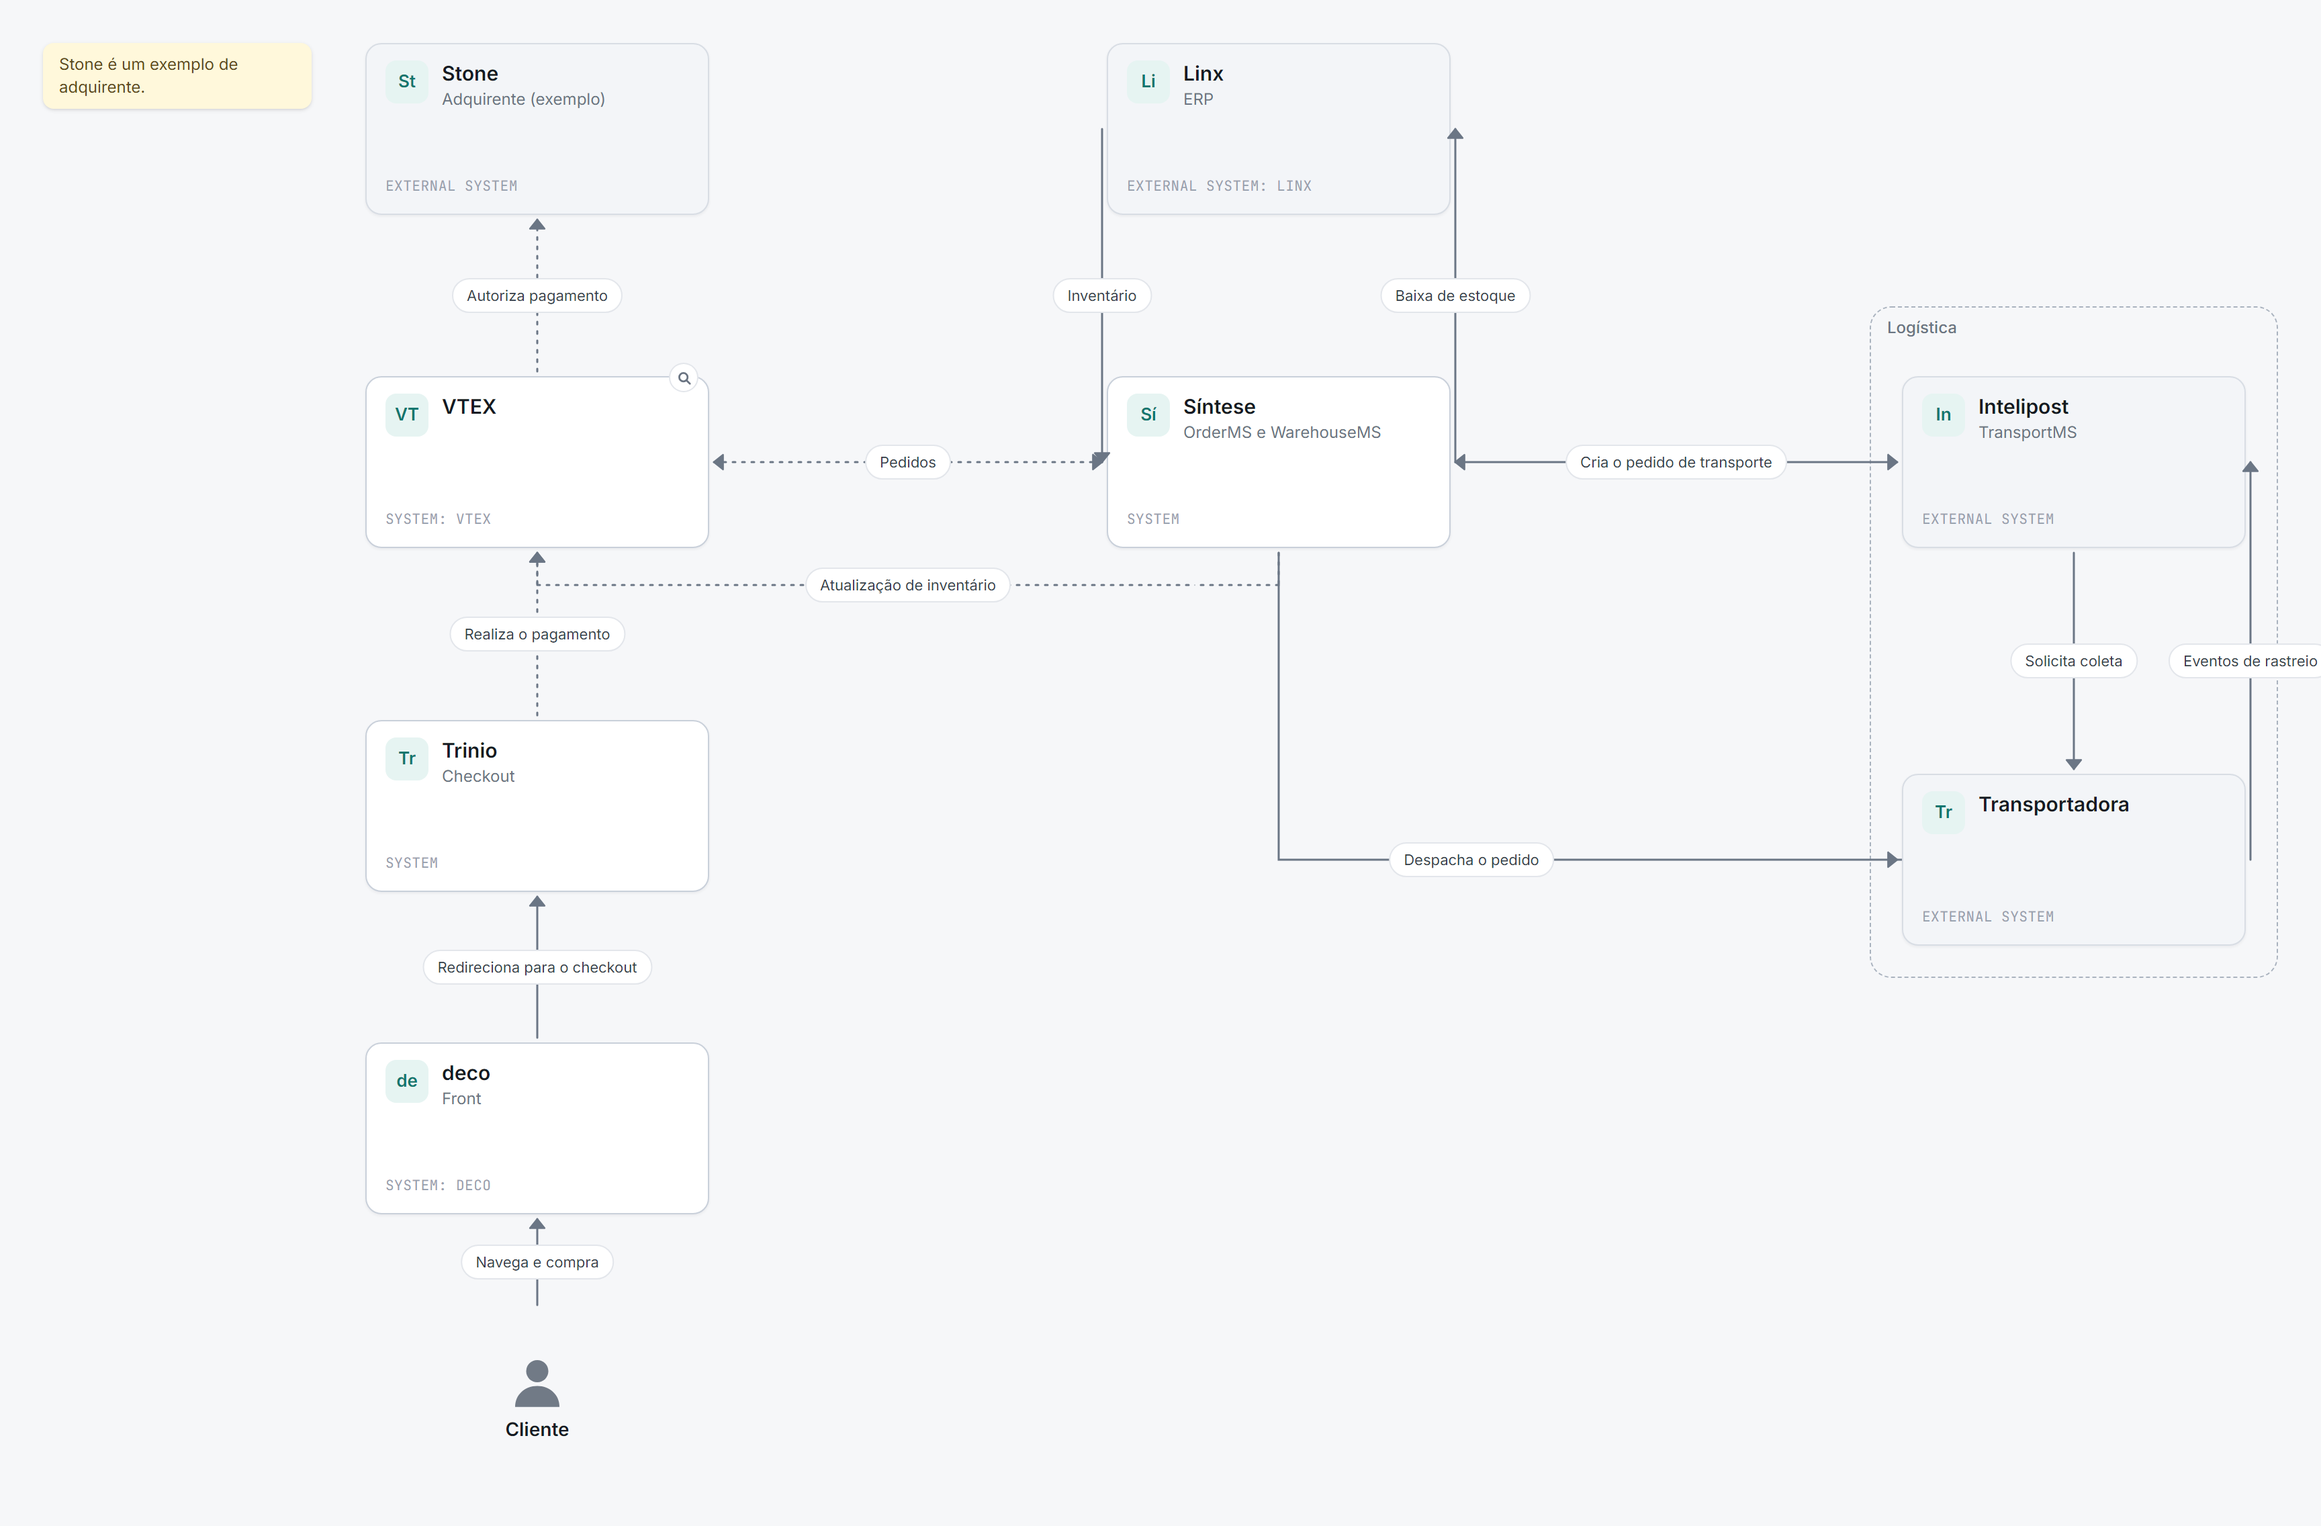
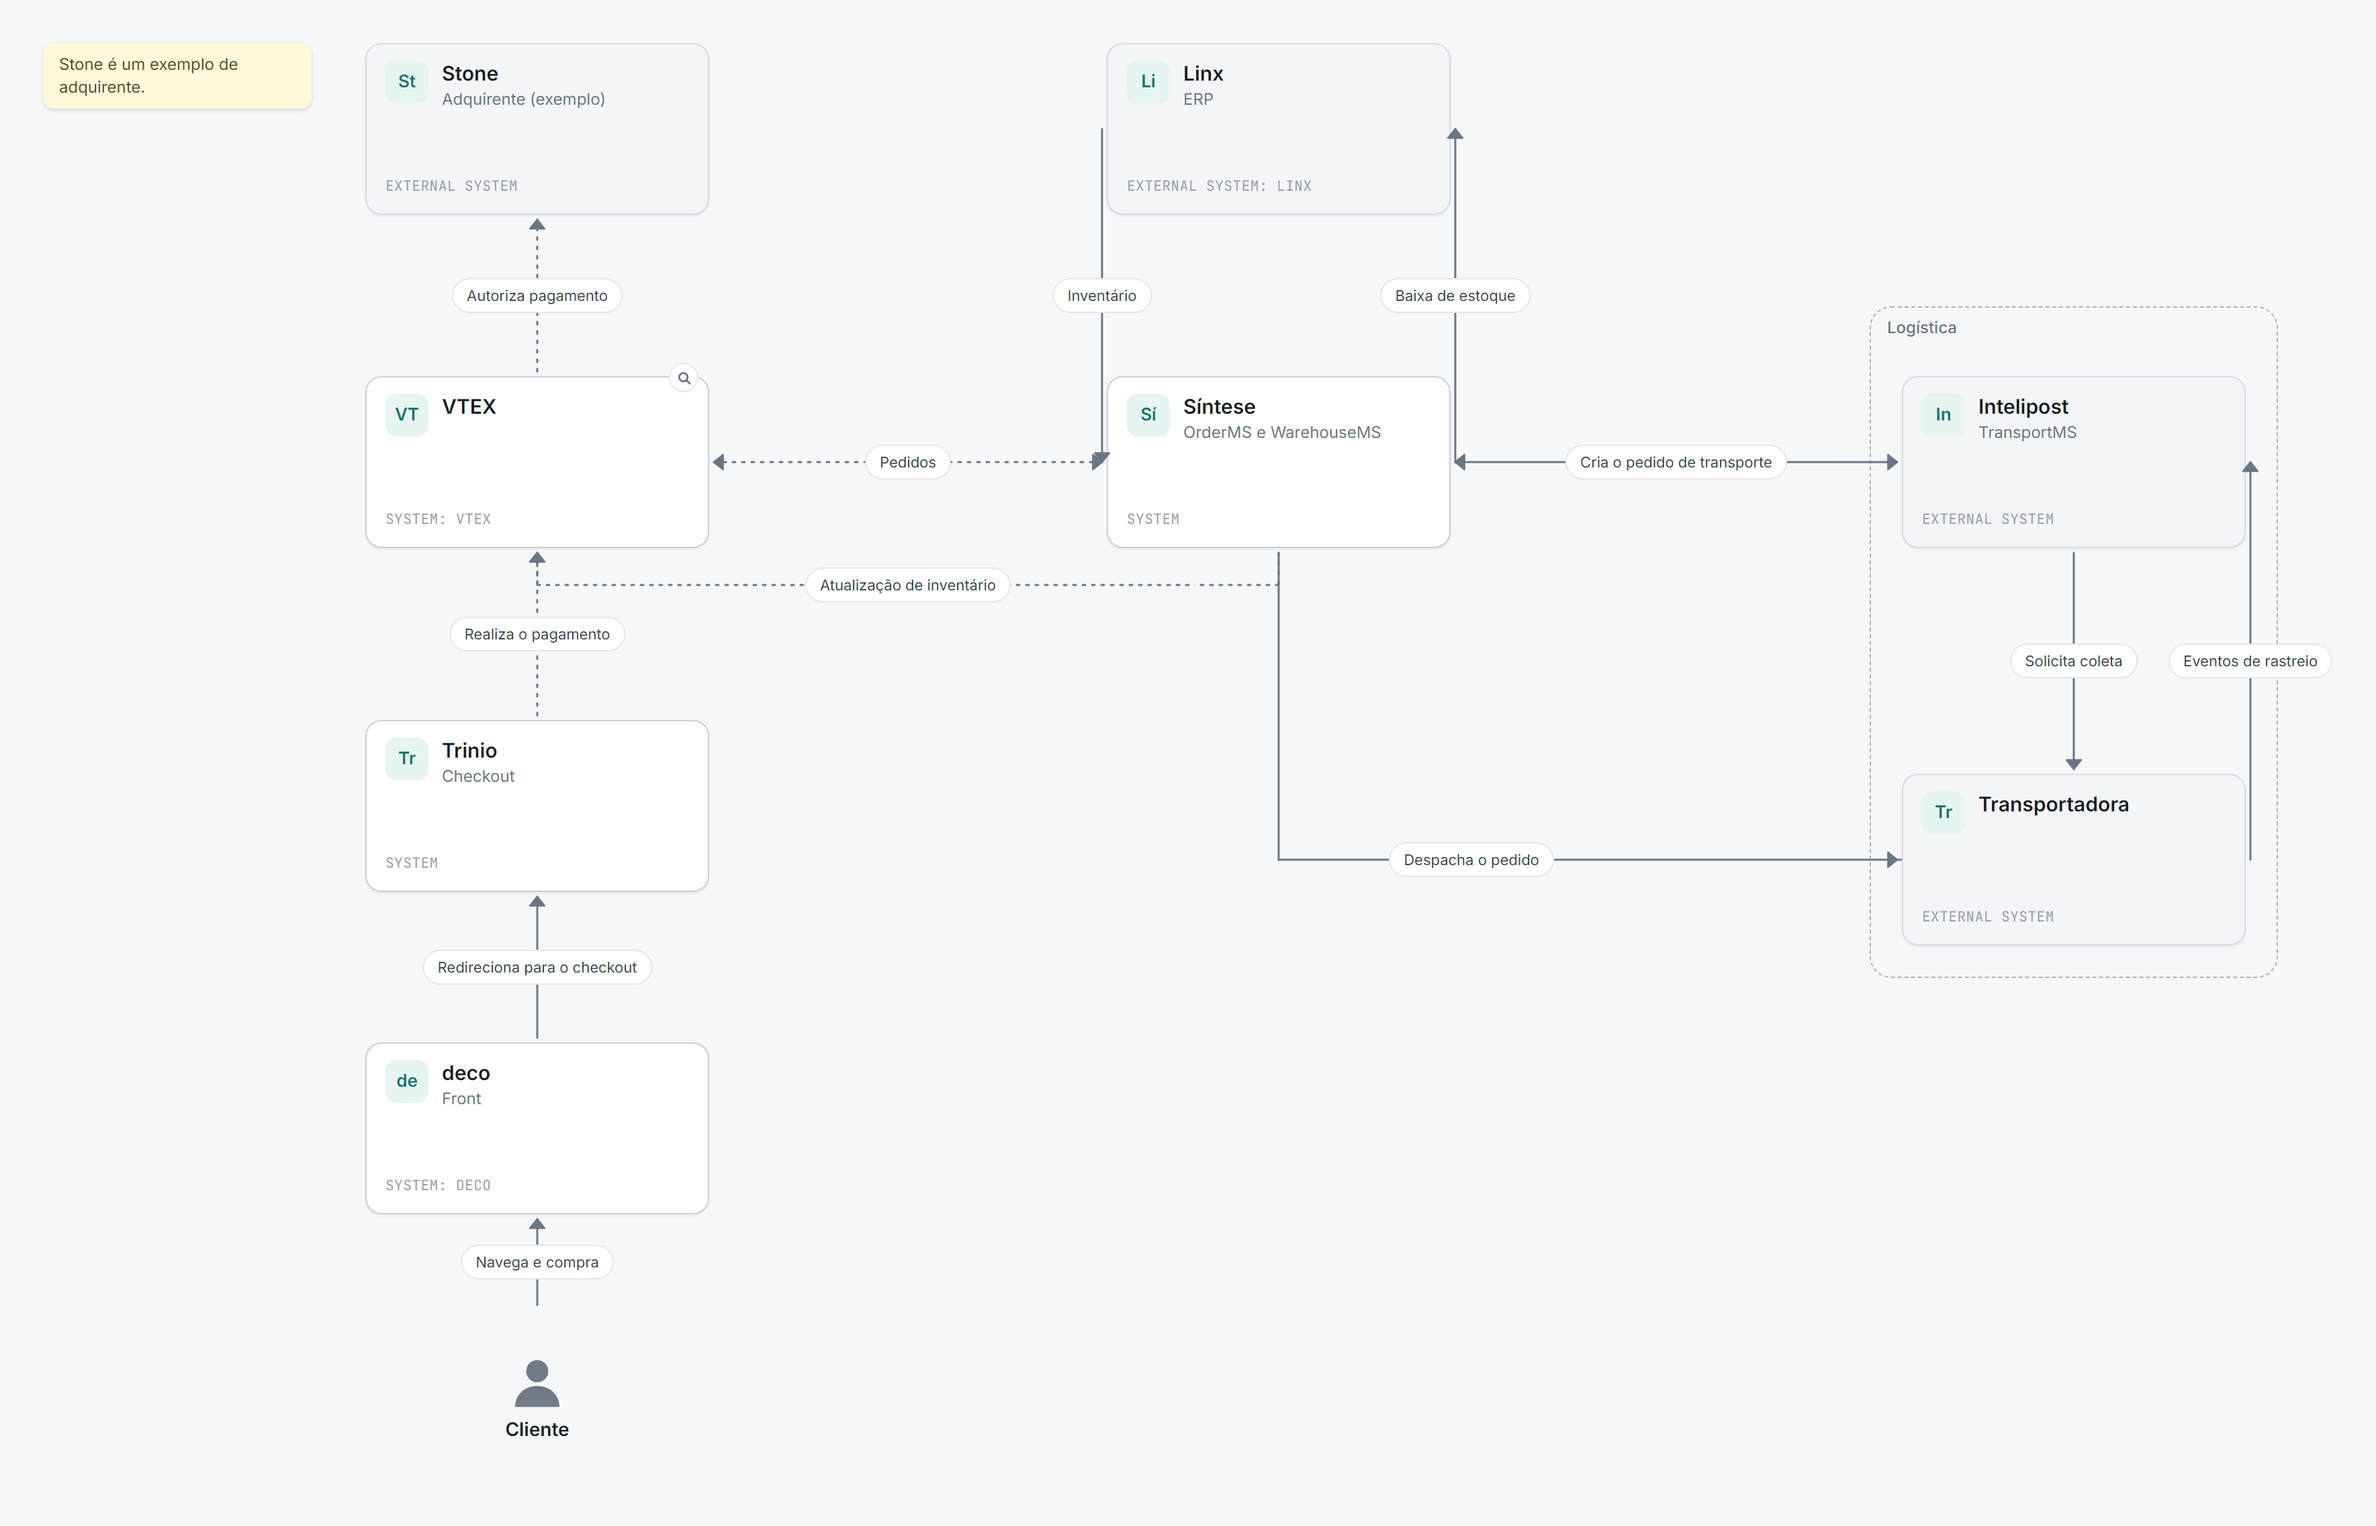
fix(render): fit the PNG frame to labels so none is clipped at the edge
The frame came from boxes, groups, notes and bend points only; a connector
label near the edge ("Eventos de rastreio") was cut on both Windows and
Linux. After layout the render route now measures what was drawn and
grows the frame once before marking itself ready. Renderer version 3.

diff --git a/packages/ui/src/canvas/Canvas.tsx b/packages/ui/src/canvas/Canvas.tsx
@@ -176,32 +176,7 @@ export function Canvas({ mode = 'edit' }: { mode?: 'edit' | 'render' }) {
 
   if (!drawing) return <div className="grid h-full place-items-center text-[var(--muted)]">Nenhum desenho. Crie um no painel esquerdo.</div>;
 
-  if (mode === 'render') {
-    const b = drawingBounds(index, drawing);
-    const pad = 32;
-    return (
-      <div id="render-root" style={{ width: Math.ceil(b.w + pad * 2), height: Math.ceil(b.h + pad * 2) }} className="bg-[var(--canvas)]">
-        <ReactFlow
-          nodes={nodes}
-          edges={edges}
-          nodeTypes={nodeTypes}
-          edgeTypes={edgeTypes}
-          onNodesChange={(changes) => setNodes((cur) => applyNodeChanges(changes, cur))}
-          viewport={{ x: -b.x + pad, y: -b.y + pad, zoom: 1 }}
-          nodesDraggable={false}
-          nodesConnectable={false}
-          elementsSelectable={false}
-          panOnDrag={false}
-          zoomOnScroll={false}
-          zoomOnPinch={false}
-          zoomOnDoubleClick={false}
-          proOptions={{ hideAttribution: true }}
-          connectionMode={ConnectionMode.Loose}
-        />
-        <RenderReady nodes={nodes.length} edges={edges.length} />
-      </div>
-    );
-  }
+  if (mode === 'render') return <RenderFrame drawing={drawing} index={index} nodes={nodes} edges={edges} setNodes={setNodes} />;
 
   return (
     <div ref={wrapper} className="relative h-full w-full">
@@ -259,11 +234,77 @@ export function Canvas({ mode = 'edit' }: { mode?: 'edit' | 'render' }) {
   );
 }
 
+type Grow = { l: number; t: number; r: number; b: number };
+const PAD = 32;
+
+/**
+ * Panel-less frame the renderer screenshots. The model gives boxes, groups,
+ * notes and bend points, but not label widths, so after layout the frame is
+ * measured in the DOM and grown once to fit everything drawn.
+ */
+function RenderFrame({ drawing, index, nodes, edges, setNodes }: {
+  drawing: NonNullable<ReturnType<typeof currentDrawing>>;
+  index: NonNullable<ReturnType<typeof useStore.getState>['index']>;
+  nodes: Node[];
+  edges: ReturnType<typeof buildGraph>['edges'];
+  setNodes: React.Dispatch<React.SetStateAction<Node[]>>;
+}) {
+  const b = drawingBounds(index, drawing);
+  const [grow, setGrow] = useState<Grow | null>(null);
+  const g = grow ?? { l: 0, t: 0, r: 0, b: 0 };
+  return (
+    <div id="render-root" style={{ width: Math.ceil(b.w + PAD * 2 + g.l + g.r), height: Math.ceil(b.h + PAD * 2 + g.t + g.b) }} className="bg-[var(--canvas)]">
+      <ReactFlow
+        nodes={nodes}
+        edges={edges}
+        nodeTypes={nodeTypes}
+        edgeTypes={edgeTypes}
+        onNodesChange={(changes) => setNodes((cur) => applyNodeChanges(changes, cur))}
+        viewport={{ x: -b.x + PAD + g.l, y: -b.y + PAD + g.t, zoom: 1 }}
+        nodesDraggable={false}
+        nodesConnectable={false}
+        elementsSelectable={false}
+        panOnDrag={false}
+        zoomOnScroll={false}
+        zoomOnPinch={false}
+        zoomOnDoubleClick={false}
+        proOptions={{ hideAttribution: true }}
+        connectionMode={ConnectionMode.Loose}
+      />
+      <RenderReady nodes={nodes.length} edges={edges.length} measured={grow !== null} onMeasure={setGrow} />
+    </div>
+  );
+}
+
+/** Space each side still needs so every drawn element sits at least PAD inside the frame. */
+function measureOverflow(): Grow {
+  const root = document.getElementById('render-root')!.getBoundingClientRect();
+  const items = document.querySelectorAll('#render-root .react-flow__node, #render-root .react-flow__edge-path, #render-root .react-flow__edgelabel-renderer > div');
+  let minX = Infinity, minY = Infinity, maxX = -Infinity, maxY = -Infinity;
+  items.forEach((el) => {
+    const r = el.getBoundingClientRect();
+    if (!r.width && !r.height) return;
+    minX = Math.min(minX, r.left);
+    minY = Math.min(minY, r.top);
+    maxX = Math.max(maxX, r.right);
+    maxY = Math.max(maxY, r.bottom);
+  });
+  if (minX === Infinity) return { l: 0, t: 0, r: 0, b: 0 };
+  const need = (v: number) => Math.max(0, Math.ceil(v));
+  return {
+    l: need(root.left + PAD - minX),
+    t: need(root.top + PAD - minY),
+    r: need(maxX - (root.right - PAD)),
+    b: need(maxY - (root.bottom - PAD)),
+  };
+}
+
 /**
  * Marks the page ready for the renderer once every node and connector is in
- * the DOM and fonts are loaded, plus two frames for layout to settle.
+ * the DOM and fonts are loaded, plus two frames for layout to settle, after
+ * one measuring pass that fits the frame to what was drawn.
  */
-function RenderReady({ nodes, edges }: { nodes: number; edges: number }) {
+function RenderReady({ nodes, edges, measured, onMeasure }: { nodes: number; edges: number; measured: boolean; onMeasure: (g: Grow) => void }) {
   const [ready, setReady] = useState(false);
   useEffect(() => {
     let raf = 0;
@@ -272,7 +313,16 @@ function RenderReady({ nodes, edges }: { nodes: number; edges: number }) {
       const n = document.querySelectorAll('#render-root .react-flow__node').length;
       const e = document.querySelectorAll('#render-root .react-flow__edge').length;
       if (n >= nodes && e >= edges) {
-        void document.fonts.ready.then(() => requestAnimationFrame(() => requestAnimationFrame(() => !cancelled && setReady(true))));
+        void document.fonts.ready.then(() =>
+          requestAnimationFrame(() =>
+            requestAnimationFrame(() => {
+              if (cancelled) return;
+              // First pass measures and grows the frame; the second (after re-render) marks ready.
+              if (!measured) onMeasure(measureOverflow());
+              else setReady(true);
+            }),
+          ),
+        );
         return;
       }
       raf = requestAnimationFrame(check);
@@ -282,6 +332,6 @@ function RenderReady({ nodes, edges }: { nodes: number; edges: number }) {
       cancelled = true;
       cancelAnimationFrame(raf);
     };
-  }, [nodes, edges]);
+  }, [nodes, edges, measured, onMeasure]);
   return <div data-ready={ready ? 'true' : 'false'} hidden />;
 }

diff --git a/packages/server/src/render-hash.ts b/packages/server/src/render-hash.ts
@@ -5,7 +5,7 @@ import { crc32 } from 'node:zlib';
 import { allSteps, ancestors, type Problem, type Project } from '@zark/core';
 
 /** Bump when the canvas look changes, so committed PNGs are re-rendered. */
-export const RENDERER_VERSION = '2';
+export const RENDERER_VERSION = '3';
 const KEY = 'zark-hash';
 
 export interface RenderTarget {
